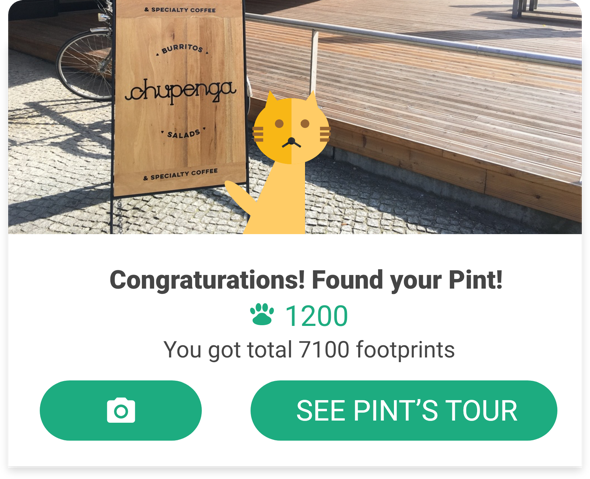
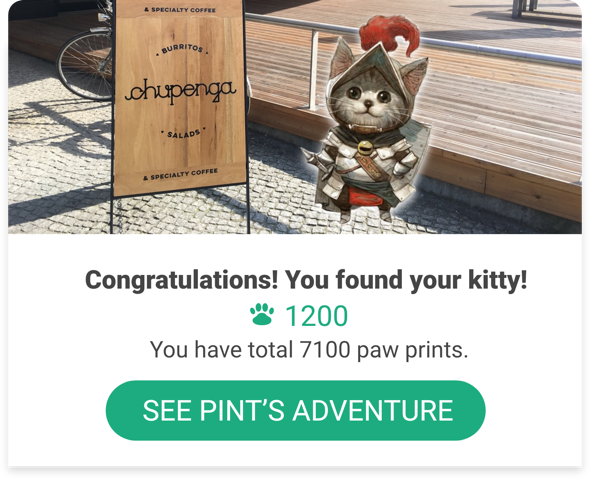
Added demo quest design changes

diff --git a/seeQuest/client/main.css b/seeQuest/client/main.css
@@ -97,11 +97,11 @@ body, .navbar-default{background: silver;}
 }
 
 .headerSidebar{
-    background: url("/questSidebarHeaderCat.jpg") no-repeat center center;
+    background: url("/questSidebarHeaderCat.png") no-repeat center center;
     background-size: contain;
     margin: 20px 0 20px 0;
     width: 100%;
-    height: 70px;
+    height: 151px;
     text-align: center;
 }
 
@@ -176,19 +176,31 @@ p.headerSidebarText{
 
 .marker1Info{
     background: url("/marker1Pic.png") no-repeat center center;
-    width: 590px;
-    height: 504px;
+    width: 350px;
+    height: 300px;
     background-size: contain;
 }
 .marker2Info{
     background: url("/marker2Picture.png") no-repeat center center;
-    width: 590px;
-    height: 504px;
+    width: 350px;
+    height: 300px;
+    background-size: contain;
+}
+.marker3Info{
+    background: url("/marker3Picture.png") no-repeat center center;
+    width: 350px;
+    height: 300px;
+    background-size: contain;
+}
+.marker4Info{
+    background: url("/marker4Picture.png") no-repeat center center;
+    width: 350px;
+    height: 300px;
     background-size: contain;
 }
 .markerFinalInfo{
     background: url("/markerFinalPicture.png") no-repeat center center;
-    width: 590px;
-    height: 504px;
+    width: 600px;
+    height: 490px;
     background-size: contain;
 }

diff --git a/seeQuest/client/components/map/mapcontainer.js b/seeQuest/client/components/map/mapcontainer.js
@@ -241,11 +241,11 @@ function handleOnReady(name) {
         });
 
         let infowindow3 = new google.maps.InfoWindow({
-            content: '<div class="marker2Info"></div>'
+            content: '<div class="marker3Info"></div>'
         });
 
         let infowindow4 = new google.maps.InfoWindow({
-            content: '<div class="marker2Info"></div>'
+            content: '<div class="marker4Info"></div>'
         });
 
         let infowindow5 = new google.maps.InfoWindow({

diff --git a/seeQuest/client/components/sidebar.js b/seeQuest/client/components/sidebar.js
@@ -6,7 +6,7 @@ class SideBar extends Component {
         return (
             <div className="questSideBar">
                 <div className="headerSidebar"></div>
-                <p className="headerSidebarText"><b>Pint</b>'s footprints</p>
+                <p className="headerSidebarText"><b>Pint</b>'s paw prints</p>
                 <QuestPoints/>
             </div>
         );
